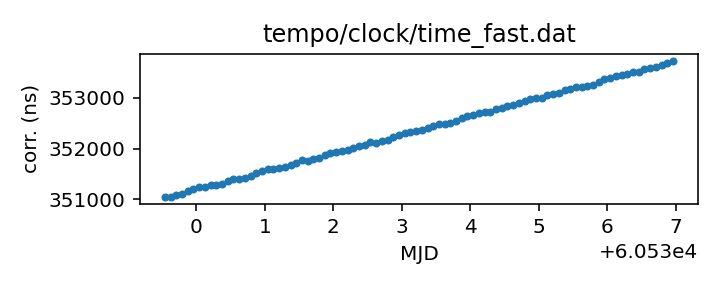
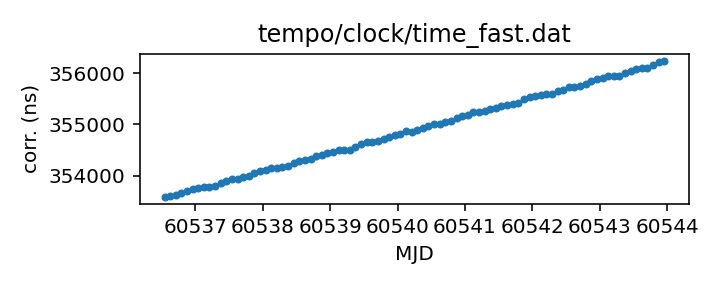
Routine gh-pages update from Github action Fri Aug 23 20:31:31 UTC 2024

diff --git a/status.md b/status.md
@@ -13,18 +13,18 @@ name of each clock file links to a page with more details.
 
 | Name | File | Corrections start | Corrections end | Last check date | Last check result 
 |:--- |:--- | --- | --- | --- |:--- 
-| [GPS to UTC](T2runtime/clock/gps2utc.clk.html) | `T2runtime/clock/gps2utc.clk` | 1993-01-01 MJD 48988.0 | 2024-04-29 MJD 60429.0 | 2024-08-22 | Unchanged 
-| [GPS to UTC (Combined Clock)](T2runtime/clock/gps2utc_cc.clk.html) | `T2runtime/clock/gps2utc_cc.clk` | 1993-01-01 MJD 48988.0 | 2024-04-29 MJD 60429.0 | 2024-08-22 | Unchanged 
-| [GPS to UTC (Corrected)](T2runtime/clock/gps2utc_c0p.clk.html) | `T2runtime/clock/gps2utc_c0p.clk` | 2010-12-29 MJD 55559.0 | 2024-04-29 MJD 60429.0 | 2024-08-22 | Unchanged 
-| [GBT](tempo/clock/time_gbt.dat.html) | `tempo/clock/time_gbt.dat` | 2000-12-31 MJD 51909.5 | 2024-05-18 MJD 60448.5 | 2024-08-22 | **Validation failed** 
+| [GPS to UTC](T2runtime/clock/gps2utc.clk.html) | `T2runtime/clock/gps2utc.clk` | 1993-01-01 MJD 48988.0 | 2024-04-29 MJD 60429.0 | 2024-08-23 | Unchanged 
+| [GPS to UTC (Combined Clock)](T2runtime/clock/gps2utc_cc.clk.html) | `T2runtime/clock/gps2utc_cc.clk` | 1993-01-01 MJD 48988.0 | 2024-04-29 MJD 60429.0 | 2024-08-23 | Unchanged 
+| [GPS to UTC (Corrected)](T2runtime/clock/gps2utc_c0p.clk.html) | `T2runtime/clock/gps2utc_c0p.clk` | 2010-12-29 MJD 55559.0 | 2024-04-29 MJD 60429.0 | 2024-08-23 | Unchanged 
+| [GBT](tempo/clock/time_gbt.dat.html) | `tempo/clock/time_gbt.dat` | 2000-12-31 MJD 51909.5 | 2024-05-18 MJD 60448.5 | 2024-08-23 | **Validation failed** 
 | [GBT (TEMPO2 converted from TEMPO)](T2runtime/clock/gbt2gps.clk.html) | `T2runtime/clock/gbt2gps.clk` | 2000-12-31 MJD 51909.5 | 2024-05-18 MJD 60448.5 | 2024-05-19 | Updated 
-| [Jodrell Bank](T2runtime/clock/jb2gps.clk.html) | `T2runtime/clock/jb2gps.clk` | 2006-10-13 MJD 54021.4 | 2023-12-04 MJD 60282.0 | 2024-08-16 | Unchanged 
-| [Jodrell Bank Roach](T2runtime/clock/jbroach2jb.clk.html) | `T2runtime/clock/jbroach2jb.clk` | 2006-10-13 MJD 54021.4 | 2018-03-20 MJD 58197.6 | 2024-08-16 | Unchanged 
-| [Jodrell Bank DFB](T2runtime/clock/jbdfb2jb.clk.html) | `T2runtime/clock/jbdfb2jb.clk` | 2006-10-13 MJD 54021.4 | 2017-05-11 MJD 57884.0 | 2024-08-16 | Unchanged 
-| [Meerkat (observatory)](T2runtime/clock/mk2utc_observatory.clk.html) | `T2runtime/clock/mk2utc_observatory.clk` | 2019-01-01 MJD 58484.0 | 2024-04-24 MJD 60425.0 | 2024-08-16 | **Failed to download** 
-| [Leap seconds](tempo/clock/leap.sec.html) | `tempo/clock/leap.sec` | 1972-07-01 MJD 41499.0 | 2017-01-01 MJD 57754.0 | 2024-08-22 | Unchanged 
-| [UT1 table](tempo/clock/ut1.dat.html) | `tempo/clock/ut1.dat` | 1973-01-02 MJD 41684.0 | 2025-08-23 MJD 60910.0 | 2024-08-22 | Unchanged 
-| [UT1 table](T2runtime/clock/ut1.dat.html) | `T2runtime/clock/ut1.dat` | 1973-01-02 MJD 41684.0 | 2025-08-23 MJD 60910.0 | 2024-08-22 | Unchanged 
+| [Jodrell Bank](T2runtime/clock/jb2gps.clk.html) | `T2runtime/clock/jb2gps.clk` | 2006-10-13 MJD 54021.4 | 2023-12-04 MJD 60282.0 | 2024-08-23 | Unchanged 
+| [Jodrell Bank Roach](T2runtime/clock/jbroach2jb.clk.html) | `T2runtime/clock/jbroach2jb.clk` | 2006-10-13 MJD 54021.4 | 2018-03-20 MJD 58197.6 | 2024-08-23 | Unchanged 
+| [Jodrell Bank DFB](T2runtime/clock/jbdfb2jb.clk.html) | `T2runtime/clock/jbdfb2jb.clk` | 2006-10-13 MJD 54021.4 | 2017-05-11 MJD 57884.0 | 2024-08-23 | Unchanged 
+| [Meerkat (observatory)](T2runtime/clock/mk2utc_observatory.clk.html) | `T2runtime/clock/mk2utc_observatory.clk` | 2019-01-01 MJD 58484.0 | 2024-04-24 MJD 60425.0 | 2024-08-23 | **Failed to download** 
+| [Leap seconds](tempo/clock/leap.sec.html) | `tempo/clock/leap.sec` | 1972-07-01 MJD 41499.0 | 2017-01-01 MJD 57754.0 | 2024-08-23 | Unchanged 
+| [UT1 table](tempo/clock/ut1.dat.html) | `tempo/clock/ut1.dat` | 1973-01-02 MJD 41684.0 | 2025-08-30 MJD 60917.0 | 2024-08-23 | Updated 
+| [UT1 table](T2runtime/clock/ut1.dat.html) | `T2runtime/clock/ut1.dat` | 1973-01-02 MJD 41684.0 | 2025-08-30 MJD 60917.0 | 2024-08-23 | Updated 
 
 
 
@@ -67,26 +67,26 @@ name of each clock file links to a page with more details.
 
 | Name | File | Corrections start | Corrections end | Last check date | Last check result 
 |:--- |:--- | --- | --- | --- |:--- 
-| [GPS to UTC (TEMPO2)](T2runtime/clock/gps2utc_tempo2.clk.html) | `T2runtime/clock/gps2utc_tempo2.clk` | 1996-03-27 MJD 50169.0 | 2022-10-27 MJD 59879.0 | 2024-08-16 | **Failed to download** 
-| [GBT (TEMPO2)](T2runtime/clock/gbt2gps_tempo2.clk.html) | `T2runtime/clock/gbt2gps_tempo2.clk` | 2000-12-31 MJD 51909.5 | 2020-02-25 MJD 58904.5 | 2024-08-16 | Unchanged 
-| [Jodrell Bank (TEMPO)](tempo/clock/time_jb.dat.html) | `tempo/clock/time_jb.dat` | 2006-10-13 MJD 54021.4 | 2019-05-13 MJD 58616.2 | 2024-08-16 | Unchanged 
-| [VLA](tempo/clock/time_vla.dat.html) | `tempo/clock/time_vla.dat` | 1990-10-27 MJD 48191.2 | 2021-03-07 MJD 59280.5 | 2024-08-16 | Unchanged 
-| [VLA (TEMPO2)](T2runtime/clock/vla2gps.clk.html) | `T2runtime/clock/vla2gps.clk` | 2015-02-01 MJD 57054.6 | 2021-03-07 MJD 59280.5 | 2024-08-16 | Unchanged 
-| [VLA to NIST](T2runtime/clock/vla2nist.clk.html) | `T2runtime/clock/vla2nist.clk` | 1990-10-27 MJD 48191.2 | 1993-11-13 MJD 49304.0 | 2024-08-16 | Unchanged 
-| [FAST](tempo/clock/time_fast.dat.html) | `tempo/clock/time_fast.dat` | 2017-07-27 MJD 57961.0 | 2024-08-14 MJD 60537.0 | 2024-08-16 | Updated 
-| [WSRT](T2runtime/clock/wsrt2gps.clk.html) | `T2runtime/clock/wsrt2gps.clk` | 1999-01-01 MJD 51179.5 | 2015-06-29 MJD 57202.1 | 2024-08-16 | Unchanged 
-| [WSRT (TEMPO)](tempo/clock/time_wsrt.dat.html) | `tempo/clock/time_wsrt.dat` | 1987-07-24 MJD 47000.0 | 2007-12-24 MJD 54458.0 | 2024-08-16 | **Validation failed** 
-| [Parkes](T2runtime/clock/pks2gps.clk.html) | `T2runtime/clock/pks2gps.clk` | 1858-11-17 MJD 0.0 | 2024-07-31 MJD 60522.1 | 2024-08-16 | Unchanged 
-| [Parkes (TEMPO)](tempo/clock/time_pks.dat.html) | `tempo/clock/time_pks.dat` | 1979-05-07 MJD 44000.0 | 2011-07-03 MJD 55745.8 | 2024-08-16 | **Validation failed** 
-| [SRT](T2runtime/clock/srt2gps.clk.html) | `T2runtime/clock/srt2gps.clk` | 2013-03-20 MJD 56371.0 | 2019-12-11 MJD 58828.0 | 2024-08-16 | Unchanged 
-| [Effelsberg](T2runtime/clock/eff2gps.clk.html) | `T2runtime/clock/eff2gps.clk` | 1993-11-29 MJD 49320.0 | 2015-06-22 MJD 57195.5 | 2024-08-16 | Unchanged 
-| [Effelsberg Asterix/PSRix](T2runtime/clock/effix2gps.clk.html) | `T2runtime/clock/effix2gps.clk` | 2011-01-01 MJD 55562.5 | 2021-03-21 MJD 59294.5 | 2024-08-16 | Unchanged 
-| [LEAP](T2runtime/clock/leap2effix.clk.html) | `T2runtime/clock/leap2effix.clk` | 2012-10-29 MJD 56230.0 | 2014-03-04 MJD 56720.0 | 2024-08-16 | Unchanged 
-| [NUPPI](tempo/clock/time_nuppi.dat.html) | `tempo/clock/time_nuppi.dat` | 2005-03-07 MJD 53436.0 | 2015-11-08 MJD 57334.6 | 2024-08-16 | Unchanged 
-| [Meerkat (TEMPO2)](T2runtime/clock/mk2utc.clk.html) | `T2runtime/clock/mk2utc.clk` | 2019-01-01 MJD 58484.0 | 2023-10-18 MJD 60235.9 | 2024-08-16 | Unchanged 
-| [MOST](T2runtime/clock/mo2gps.clk.html) | `T2runtime/clock/mo2gps.clk` | 2003-12-27 MJD 53000.0 | 2018-09-06 MJD 58367.0 | 2024-08-16 | Unchanged 
-| [Nancay to obspm](T2runtime/clock/ncyobs2obspm.clk.html) | `T2runtime/clock/ncyobs2obspm.clk` | 1988-05-18 MJD 47299.6 | 2023-10-27 MJD 60244.0 | 2024-08-16 | Unchanged 
-| [obspm](T2runtime/clock/obspm2gps.clk.html) | `T2runtime/clock/obspm2gps.clk` | 2003-12-01 MJD 52974.0 | 2023-10-27 MJD 60244.0 | 2024-08-16 | Unchanged 
+| [GPS to UTC (TEMPO2)](T2runtime/clock/gps2utc_tempo2.clk.html) | `T2runtime/clock/gps2utc_tempo2.clk` | 1996-03-27 MJD 50169.0 | 2022-10-27 MJD 59879.0 | 2024-08-23 | **Failed to download** 
+| [GBT (TEMPO2)](T2runtime/clock/gbt2gps_tempo2.clk.html) | `T2runtime/clock/gbt2gps_tempo2.clk` | 2000-12-31 MJD 51909.5 | 2020-02-25 MJD 58904.5 | 2024-08-23 | Unchanged 
+| [Jodrell Bank (TEMPO)](tempo/clock/time_jb.dat.html) | `tempo/clock/time_jb.dat` | 2006-10-13 MJD 54021.4 | 2019-05-13 MJD 58616.2 | 2024-08-23 | Unchanged 
+| [VLA](tempo/clock/time_vla.dat.html) | `tempo/clock/time_vla.dat` | 1990-10-27 MJD 48191.2 | 2021-03-07 MJD 59280.5 | 2024-08-23 | Unchanged 
+| [VLA (TEMPO2)](T2runtime/clock/vla2gps.clk.html) | `T2runtime/clock/vla2gps.clk` | 2015-02-01 MJD 57054.6 | 2021-03-07 MJD 59280.5 | 2024-08-23 | Unchanged 
+| [VLA to NIST](T2runtime/clock/vla2nist.clk.html) | `T2runtime/clock/vla2nist.clk` | 1990-10-27 MJD 48191.2 | 1993-11-13 MJD 49304.0 | 2024-08-23 | Unchanged 
+| [FAST](tempo/clock/time_fast.dat.html) | `tempo/clock/time_fast.dat` | 2017-07-27 MJD 57961.0 | 2024-08-21 MJD 60544.0 | 2024-08-23 | Updated 
+| [WSRT](T2runtime/clock/wsrt2gps.clk.html) | `T2runtime/clock/wsrt2gps.clk` | 1999-01-01 MJD 51179.5 | 2015-06-29 MJD 57202.1 | 2024-08-23 | Unchanged 
+| [WSRT (TEMPO)](tempo/clock/time_wsrt.dat.html) | `tempo/clock/time_wsrt.dat` | 1987-07-24 MJD 47000.0 | 2007-12-24 MJD 54458.0 | 2024-08-23 | **Validation failed** 
+| [Parkes](T2runtime/clock/pks2gps.clk.html) | `T2runtime/clock/pks2gps.clk` | 1858-11-17 MJD 0.0 | 2024-07-31 MJD 60522.1 | 2024-08-23 | Unchanged 
+| [Parkes (TEMPO)](tempo/clock/time_pks.dat.html) | `tempo/clock/time_pks.dat` | 1979-05-07 MJD 44000.0 | 2011-07-03 MJD 55745.8 | 2024-08-23 | **Validation failed** 
+| [SRT](T2runtime/clock/srt2gps.clk.html) | `T2runtime/clock/srt2gps.clk` | 2013-03-20 MJD 56371.0 | 2019-12-11 MJD 58828.0 | 2024-08-23 | Unchanged 
+| [Effelsberg](T2runtime/clock/eff2gps.clk.html) | `T2runtime/clock/eff2gps.clk` | 1993-11-29 MJD 49320.0 | 2015-06-22 MJD 57195.5 | 2024-08-23 | Unchanged 
+| [Effelsberg Asterix/PSRix](T2runtime/clock/effix2gps.clk.html) | `T2runtime/clock/effix2gps.clk` | 2011-01-01 MJD 55562.5 | 2021-03-21 MJD 59294.5 | 2024-08-23 | Unchanged 
+| [LEAP](T2runtime/clock/leap2effix.clk.html) | `T2runtime/clock/leap2effix.clk` | 2012-10-29 MJD 56230.0 | 2014-03-04 MJD 56720.0 | 2024-08-23 | Unchanged 
+| [NUPPI](tempo/clock/time_nuppi.dat.html) | `tempo/clock/time_nuppi.dat` | 2005-03-07 MJD 53436.0 | 2015-11-08 MJD 57334.6 | 2024-08-23 | Unchanged 
+| [Meerkat (TEMPO2)](T2runtime/clock/mk2utc.clk.html) | `T2runtime/clock/mk2utc.clk` | 2019-01-01 MJD 58484.0 | 2023-10-18 MJD 60235.9 | 2024-08-23 | Unchanged 
+| [MOST](T2runtime/clock/mo2gps.clk.html) | `T2runtime/clock/mo2gps.clk` | 2003-12-27 MJD 53000.0 | 2018-09-06 MJD 58367.0 | 2024-08-23 | Unchanged 
+| [Nancay to obspm](T2runtime/clock/ncyobs2obspm.clk.html) | `T2runtime/clock/ncyobs2obspm.clk` | 1988-05-18 MJD 47299.6 | 2023-10-27 MJD 60244.0 | 2024-08-23 | Unchanged 
+| [obspm](T2runtime/clock/obspm2gps.clk.html) | `T2runtime/clock/obspm2gps.clk` | 2003-12-01 MJD 52974.0 | 2023-10-27 MJD 60244.0 | 2024-08-23 | Unchanged 
 
 
 ### Further information:

diff --git a/tempo/clock/time_pks.dat.md b/tempo/clock/time_pks.dat.md
@@ -20,12 +20,11 @@ telescopes in the same file, distinguished only by observatory code.
 | Clock file start | 1979-05-07 MJD 44000.0 |
 | Clock file end | 2011-07-03 MJD 55745.8 |
 | Update interval (days) | 7 |
-| Last update attempt | 2024-08-16 |
+| Last update attempt | 2024-08-23 |
 | Last update result | Validation failed |
 
 Log entries from the last few update attempts:
 ```
-2024-06-14 20:29:51.890 - Validation failed: Unable to read new version of tempo/clock/time_pks.dat: Clock file /tmp/astropy-download-1801-tisulijr appears to be out of order: 49959.0 > 49958.0
 2024-06-21 20:29:55.211 - Validation failed: Unable to read new version of tempo/clock/time_pks.dat: Clock file /tmp/astropy-download-1818-a0_m0tm6 appears to be out of order: 49959.0 > 49958.0
 2024-06-28 20:29:43.204 - Validation failed: Unable to read new version of tempo/clock/time_pks.dat: Clock file /tmp/astropy-download-1891-89y18t2_ appears to be out of order: 49959.0 > 49958.0
 2024-07-05 20:29:58.943 - Validation failed: Unable to read new version of tempo/clock/time_pks.dat: Clock file /tmp/astropy-download-1810-trqtm1kr appears to be out of order: 49959.0 > 49958.0
@@ -35,6 +34,7 @@ Log entries from the last few update attempts:
 2024-08-02 20:31:15.123 - Validation failed: Unable to read new version of tempo/clock/time_pks.dat: Clock file /tmp/astropy-download-1884-prw9g2tg appears to be out of order: 49959.0 > 49958.0
 2024-08-09 20:31:11.284 - Validation failed: Unable to read new version of tempo/clock/time_pks.dat: Clock file /tmp/astropy-download-1813-swwbjeka appears to be out of order: 49959.0 > 49958.0
 2024-08-16 20:31:04.370 - Validation failed: Unable to read new version of tempo/clock/time_pks.dat: Clock file /tmp/astropy-download-1819-bg24jb3b appears to be out of order: 49959.0 > 49958.0
+2024-08-23 20:30:59.058 - Validation failed: Unable to read new version of tempo/clock/time_pks.dat: Clock file /tmp/astropy-download-1777-zxlnpoxz appears to be out of order: 49959.0 > 49958.0
 ```
 [Full log](https://raw.githubusercontent.com/ipta/pulsar-clock-corrections/main/log/tempo/clock/time_pks.dat.log)
 

diff --git a/tempo/clock/time_wsrt.dat.md b/tempo/clock/time_wsrt.dat.md
@@ -20,12 +20,11 @@ should be the same information.
 | Clock file start | 1987-07-24 MJD 47000.0 |
 | Clock file end | 2007-12-24 MJD 54458.0 |
 | Update interval (days) | 7 |
-| Last update attempt | 2024-08-16 |
+| Last update attempt | 2024-08-23 |
 | Last update result | Validation failed |
 
 Log entries from the last few update attempts:
 ```
-2024-06-14 20:29:48.546 - Validation failed: Unable to read new version of tempo/clock/time_wsrt.dat: Clock file /tmp/astropy-download-1801-gxdcwqox appears to be out of order: 53000.05 > 53000.0
 2024-06-21 20:29:50.513 - Validation failed: Unable to read new version of tempo/clock/time_wsrt.dat: Clock file /tmp/astropy-download-1818-gztup1ud appears to be out of order: 53000.05 > 53000.0
 2024-06-28 20:29:38.470 - Validation failed: Unable to read new version of tempo/clock/time_wsrt.dat: Clock file /tmp/astropy-download-1891-katqx_gz appears to be out of order: 53000.05 > 53000.0
 2024-07-05 20:29:55.289 - Validation failed: Unable to read new version of tempo/clock/time_wsrt.dat: Clock file /tmp/astropy-download-1810-6x_oo0y2 appears to be out of order: 53000.05 > 53000.0
@@ -35,6 +34,7 @@ Log entries from the last few update attempts:
 2024-08-02 20:31:12.075 - Validation failed: Unable to read new version of tempo/clock/time_wsrt.dat: Clock file /tmp/astropy-download-1884-lk6lifwj appears to be out of order: 53000.05 > 53000.0
 2024-08-09 20:31:02.876 - Validation failed: Unable to read new version of tempo/clock/time_wsrt.dat: Clock file /tmp/astropy-download-1813-0v7eqv0r appears to be out of order: 53000.05 > 53000.0
 2024-08-16 20:30:59.758 - Validation failed: Unable to read new version of tempo/clock/time_wsrt.dat: Clock file /tmp/astropy-download-1819-rydxnzal appears to be out of order: 53000.05 > 53000.0
+2024-08-23 20:30:54.095 - Validation failed: Unable to read new version of tempo/clock/time_wsrt.dat: Clock file /tmp/astropy-download-1777-02v_ey55 appears to be out of order: 53000.05 > 53000.0
 ```
 [Full log](https://raw.githubusercontent.com/ipta/pulsar-clock-corrections/main/log/tempo/clock/time_wsrt.dat.log)
 

diff --git a/tempo/clock/time_gbt.dat.md b/tempo/clock/time_gbt.dat.md
@@ -33,12 +33,11 @@ If questions arise, contact Ryan S. Lynch <rlynch@nrao.edu>.
 | Clock file start | 2000-12-31 MJD 51909.5 |
 | Clock file end | 2024-05-18 MJD 60448.5 |
 | Update interval (days) | 1 |
-| Last update attempt | 2024-08-22 |
+| Last update attempt | 2024-08-23 |
 | Last update result | Validation failed |
 
 Log entries from the last few update attempts:
 ```
-2024-08-13 20:30:51.979 - Validation failed: New version of tempo/clock/time_gbt.dat clock corrections differ from old version where they overlap in 11 places
 2024-08-14 20:30:23.923 - Validation failed: New version of tempo/clock/time_gbt.dat clock corrections differ from old version where they overlap in 11 places
 2024-08-15 20:29:52.959 - Validation failed: New version of tempo/clock/time_gbt.dat clock corrections differ from old version where they overlap in 11 places
 2024-08-16 20:30:56.450 - Validation failed: New version of tempo/clock/time_gbt.dat clock corrections differ from old version where they overlap in 11 places
@@ -48,6 +47,7 @@ Log entries from the last few update attempts:
 2024-08-20 20:32:29.015 - Validation failed: New version of tempo/clock/time_gbt.dat clock corrections differ from old version where they overlap in 11 places
 2024-08-21 20:33:27.293 - Validation failed: New version of tempo/clock/time_gbt.dat clock corrections differ from old version where they overlap in 11 places
 2024-08-22 20:31:19.319 - Validation failed: New version of tempo/clock/time_gbt.dat clock corrections differ from old version where they overlap in 11 places
+2024-08-23 20:30:50.454 - Validation failed: New version of tempo/clock/time_gbt.dat clock corrections differ from old version where they overlap in 11 places
 ```
 [Full log](https://raw.githubusercontent.com/ipta/pulsar-clock-corrections/main/log/tempo/clock/time_gbt.dat.log)
 

diff --git a/T2runtime/clock/gps2utc_tempo2.clk.md b/T2runtime/clock/gps2utc_tempo2.clk.md
@@ -27,12 +27,11 @@ are from the column C0').
 | Clock file start | 1996-03-27 MJD 50169.0 |
 | Clock file end | 2022-10-27 MJD 59879.0 |
 | Update interval (days) | 7 |
-| Last update attempt | 2024-08-16 |
+| Last update attempt | 2024-08-23 |
 | Last update result | Failed to download |
 
 Log entries from the last few update attempts:
 ```
-2024-06-14 20:29:11.087 - Failed to download: HTTP Error 404: Not Found
 2024-06-21 20:29:27.909 - Failed to download: HTTP Error 404: Not Found
 2024-06-28 20:29:11.138 - Failed to download: HTTP Error 404: Not Found
 2024-07-05 20:29:14.464 - Failed to download: HTTP Error 404: Not Found
@@ -42,6 +41,7 @@ Log entries from the last few update attempts:
 2024-08-02 20:30:33.662 - Failed to download: HTTP Error 404: Not Found
 2024-08-09 20:30:35.633 - Failed to download: HTTP Error 404: Not Found
 2024-08-16 20:30:32.528 - Failed to download: HTTP Error 404: Not Found
+2024-08-23 20:30:26.601 - Failed to download: HTTP Error 404: Not Found
 ```
 [Full log](https://raw.githubusercontent.com/ipta/pulsar-clock-corrections/main/log/T2runtime/clock/gps2utc_tempo2.clk.log)
 

diff --git a/T2runtime/clock/mk2utc_observatory.clk.md b/T2runtime/clock/mk2utc_observatory.clk.md
@@ -21,12 +21,11 @@ If questions arise, contact Ryan Shannon <rshannon@swin.edu.au>
 | Clock file start | 2019-01-01 MJD 58484.0 |
 | Clock file end | 2024-04-24 MJD 60425.0 |
 | Update interval (days) | 7 |
-| Last update attempt | 2024-08-16 |
+| Last update attempt | 2024-08-23 |
 | Last update result | Failed to download |
 
 Log entries from the last few update attempts:
 ```
-2024-06-14 20:29:57.559 - Unchanged
 2024-06-21 20:29:58.849 - Unchanged
 2024-06-28 20:29:55.029 - Failed to download: <urlopen error _ssl.c:990: The handshake operation timed out>
 2024-07-05 20:30:07.740 - Unchanged
@@ -36,6 +35,7 @@ Log entries from the last few update attempts:
 2024-08-02 20:31:19.452 - Failed to download: HTTP Error 403: Forbidden
 2024-08-09 20:31:14.076 - Failed to download: HTTP Error 403: Forbidden
 2024-08-16 20:31:06.018 - Failed to download: HTTP Error 403: Forbidden
+2024-08-23 20:31:02.824 - Failed to download: HTTP Error 502: Proxy Error
 ```
 [Full log](https://raw.githubusercontent.com/ipta/pulsar-clock-corrections/main/log/T2runtime/clock/mk2utc_observatory.clk.log)
 

diff --git a/T2runtime/clock/ut1.dat.md b/T2runtime/clock/ut1.dat.md
@@ -28,14 +28,13 @@ If there are any questions, contact Anne Archibald
 | File | `T2runtime/clock/ut1.dat` |
 | Authority | observatory |
 | File start | 1973-01-02 MJD 41684.0 |
-| File end | 2025-08-23 MJD 60910.0 |
+| File end | 2025-08-30 MJD 60917.0 |
 | Update interval (days) | 0 |
-| Last update attempt | 2024-08-22 |
-| Last update result | Unchanged |
+| Last update attempt | 2024-08-23 |
+| Last update result | Updated |
 
 Log entries from the last few update attempts:
 ```
-2024-08-13 20:31:00.182 - Unchanged
 2024-08-14 20:30:33.420 - Unchanged
 2024-08-15 20:30:01.242 - Updated
 2024-08-16 20:31:14.530 - Unchanged
@@ -45,5 +44,6 @@ Log entries from the last few update attempts:
 2024-08-20 20:32:38.458 - Unchanged
 2024-08-21 20:33:35.461 - Unchanged
 2024-08-22 20:31:26.913 - Unchanged
+2024-08-23 20:31:14.123 - Updated
 ```
 [Full log](https://raw.githubusercontent.com/ipta/pulsar-clock-corrections/main/log/T2runtime/clock/ut1.dat.log)

diff --git a/tempo/clock/ut1.dat.md b/tempo/clock/ut1.dat.md
@@ -28,14 +28,13 @@ If there are any questions, contact Anne Archibald
 | File | `tempo/clock/ut1.dat` |
 | Authority | observatory |
 | File start | 1973-01-02 MJD 41684.0 |
-| File end | 2025-08-23 MJD 60910.0 |
+| File end | 2025-08-30 MJD 60917.0 |
 | Update interval (days) | 0 |
-| Last update attempt | 2024-08-22 |
-| Last update result | Unchanged |
+| Last update attempt | 2024-08-23 |
+| Last update result | Updated |
 
 Log entries from the last few update attempts:
 ```
-2024-08-13 20:31:00.125 - Unchanged
 2024-08-14 20:30:33.363 - Unchanged
 2024-08-15 20:30:01.184 - Updated
 2024-08-16 20:31:14.473 - Unchanged
@@ -45,5 +44,6 @@ Log entries from the last few update attempts:
 2024-08-20 20:32:38.401 - Unchanged
 2024-08-21 20:33:35.404 - Unchanged
 2024-08-22 20:31:26.852 - Unchanged
+2024-08-23 20:31:14.064 - Updated
 ```
 [Full log](https://raw.githubusercontent.com/ipta/pulsar-clock-corrections/main/log/tempo/clock/ut1.dat.log)

diff --git a/tempo/clock/time_fast.dat.md b/tempo/clock/time_fast.dat.md
@@ -14,14 +14,13 @@ This file is pulled from the FAST_ClockFile repository.
 | Format | tempo |
 | Bogus last correction | False |
 | Clock file start | 2017-07-27 MJD 57961.0 |
-| Clock file end | 2024-08-14 MJD 60537.0 |
+| Clock file end | 2024-08-21 MJD 60544.0 |
 | Update interval (days) | 7 |
-| Last update attempt | 2024-08-16 |
+| Last update attempt | 2024-08-23 |
 | Last update result | Updated |
 
 Log entries from the last few update attempts:
 ```
-2024-06-14 20:29:47.904 - Updated
 2024-06-21 20:29:49.947 - Updated
 2024-06-28 20:29:37.764 - Updated
 2024-07-05 20:29:54.615 - Updated
@@ -31,6 +30,7 @@ Log entries from the last few update attempts:
 2024-08-02 20:31:11.541 - Updated
 2024-08-09 20:31:02.403 - Updated
 2024-08-16 20:30:59.399 - Updated
+2024-08-23 20:30:53.681 - Updated
 ```
 [Full log](https://raw.githubusercontent.com/ipta/pulsar-clock-corrections/main/log/tempo/clock/time_fast.dat.log)
 

diff --git a/T2runtime/clock/gps2utc_c0p.clk.md b/T2runtime/clock/gps2utc_c0p.clk.md
@@ -30,12 +30,11 @@ about the BIPM's published corrections, contact <tai@bipm.org>.
 | Clock file start | 2010-12-29 MJD 55559.0 |
 | Clock file end | 2024-04-29 MJD 60429.0 |
 | Update interval (days) | 1 |
-| Last update attempt | 2024-08-22 |
+| Last update attempt | 2024-08-23 |
 | Last update result | Unchanged |
 
 Log entries from the last few update attempts:
 ```
-2024-08-13 20:30:51.094 - Unchanged
 2024-08-14 20:30:23.487 - Unchanged
 2024-08-15 20:29:52.538 - Unchanged
 2024-08-16 20:30:56.092 - Unchanged
@@ -45,6 +44,7 @@ Log entries from the last few update attempts:
 2024-08-20 20:32:28.515 - Unchanged
 2024-08-21 20:33:27.009 - Unchanged
 2024-08-22 20:31:19.024 - Unchanged
+2024-08-23 20:30:49.888 - Unchanged
 ```
 [Full log](https://raw.githubusercontent.com/ipta/pulsar-clock-corrections/main/log/T2runtime/clock/gps2utc_c0p.clk.log)
 

diff --git a/T2runtime/clock/gps2utc_cc.clk.md b/T2runtime/clock/gps2utc_cc.clk.md
@@ -29,12 +29,11 @@ about the BIPM's published corrections, contact <tai@bipm.org>.
 | Clock file start | 1993-01-01 MJD 48988.0 |
 | Clock file end | 2024-04-29 MJD 60429.0 |
 | Update interval (days) | 1 |
-| Last update attempt | 2024-08-22 |
+| Last update attempt | 2024-08-23 |
 | Last update result | Unchanged |
 
 Log entries from the last few update attempts:
 ```
-2024-08-13 20:30:51.082 - Unchanged
 2024-08-14 20:30:23.475 - Unchanged
 2024-08-15 20:29:52.526 - Unchanged
 2024-08-16 20:30:56.079 - Unchanged
@@ -44,6 +43,7 @@ Log entries from the last few update attempts:
 2024-08-20 20:32:28.504 - Unchanged
 2024-08-21 20:33:26.998 - Unchanged
 2024-08-22 20:31:19.012 - Unchanged
+2024-08-23 20:30:49.876 - Unchanged
 ```
 [Full log](https://raw.githubusercontent.com/ipta/pulsar-clock-corrections/main/log/T2runtime/clock/gps2utc_cc.clk.log)
 

diff --git a/T2runtime/clock/gps2utc.clk.md b/T2runtime/clock/gps2utc.clk.md
@@ -32,12 +32,11 @@ about the BIPM's published corrections, contact <tai@bipm.org>.
 | Clock file start | 1993-01-01 MJD 48988.0 |
 | Clock file end | 2024-04-29 MJD 60429.0 |
 | Update interval (days) | 1 |
-| Last update attempt | 2024-08-22 |
+| Last update attempt | 2024-08-23 |
 | Last update result | Unchanged |
 
 Log entries from the last few update attempts:
 ```
-2024-08-13 20:30:51.052 - Unchanged
 2024-08-14 20:30:23.445 - Unchanged
 2024-08-15 20:29:52.498 - Unchanged
 2024-08-16 20:30:56.051 - Unchanged
@@ -47,6 +46,7 @@ Log entries from the last few update attempts:
 2024-08-20 20:32:28.476 - Unchanged
 2024-08-21 20:33:26.970 - Unchanged
 2024-08-22 20:31:18.985 - Unchanged
+2024-08-23 20:30:49.848 - Unchanged
 ```
 [Full log](https://raw.githubusercontent.com/ipta/pulsar-clock-corrections/main/log/T2runtime/clock/gps2utc.clk.log)
 
